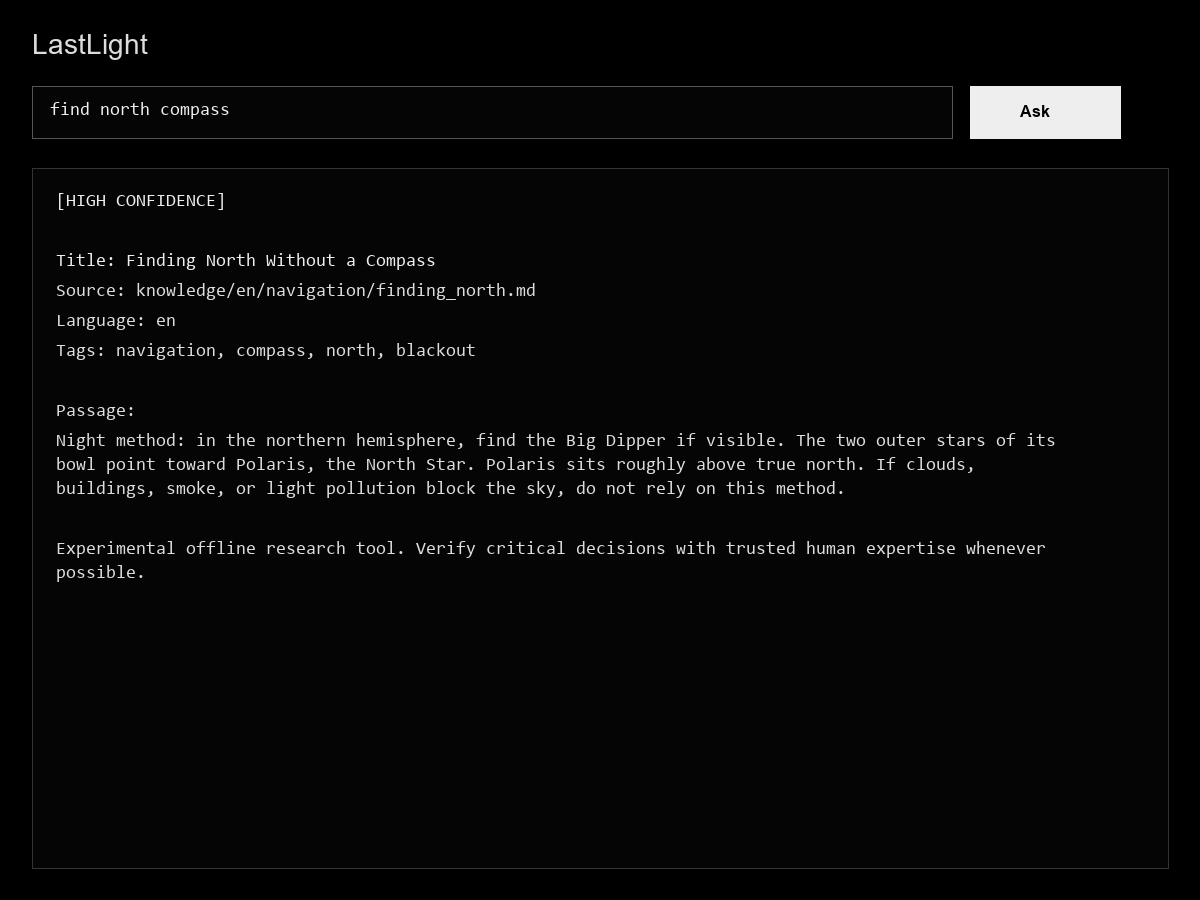
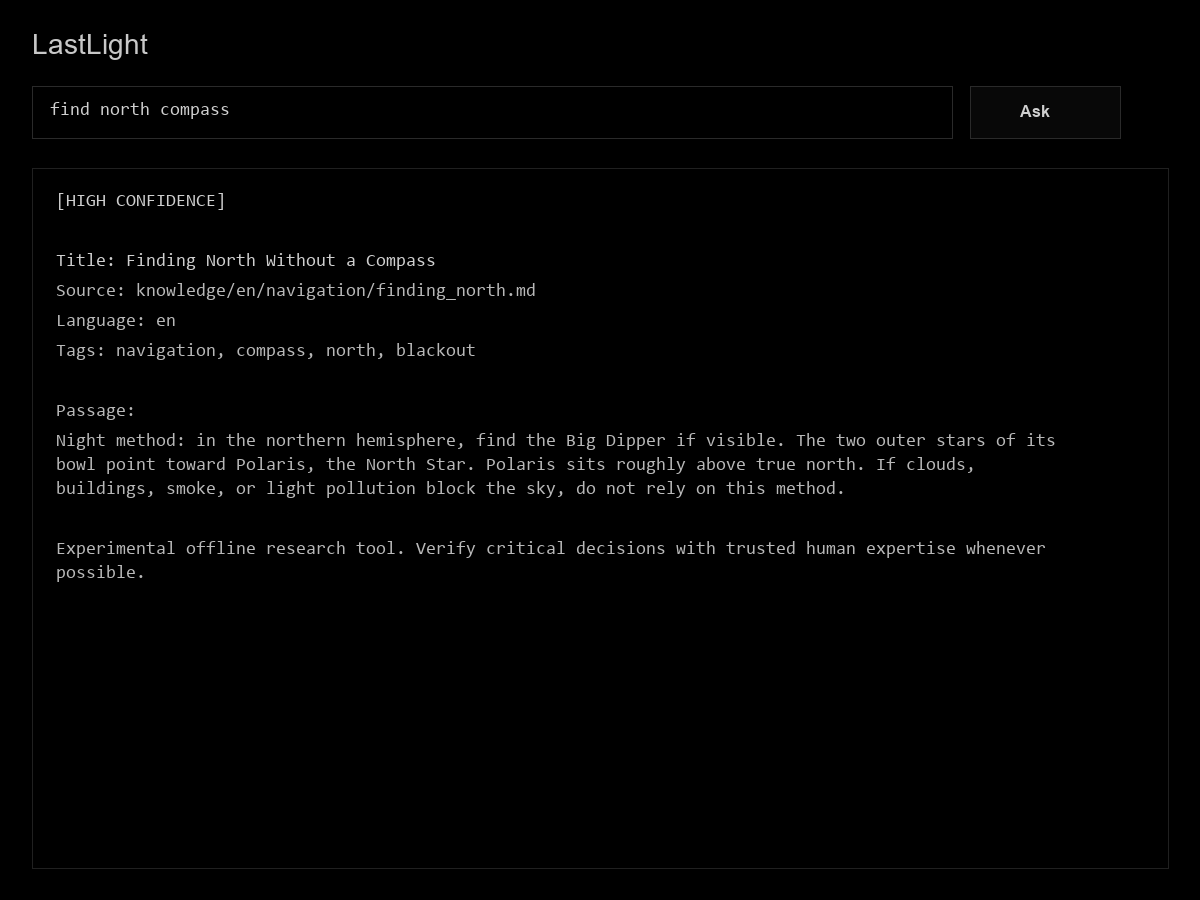
Darken web UI for low power

diff --git a/src/lastlight/web.py b/src/lastlight/web.py
@@ -33,7 +33,7 @@ def render_page(query: str = "", answer: str = "") -> bytes:
 body {{
   margin: 0;
   background: #000;
-  color: #ddd;
+  color: #b8b8b8;
   font: 16px/1.45 system-ui, sans-serif;
 }}
 main {{
@@ -41,31 +41,37 @@ main {{
   margin: 0 auto;
   padding: 1rem;
 }}
-h1 {{ font-size: 1.25rem; margin: 0 0 1rem; }}
+h1 {{ color: #c8c8c8; font-size: 1.25rem; margin: 0 0 1rem; }}
 form {{ display: flex; gap: .5rem; margin-bottom: 1rem; }}
 input {{
   flex: 1;
   min-width: 0;
-  background: #050505;
-  color: #eee;
-  border: 1px solid #555;
+  background: #000;
+  color: #cfcfcf;
+  border: 1px solid #2a2a2a;
   padding: .7rem;
 }}
 button {{
-  background: #eee;
-  color: #000;
-  border: 0;
+  background: #080808;
+  color: #cfcfcf;
+  border: 1px solid #2a2a2a;
   padding: .7rem .9rem;
   font-weight: 700;
+}}
+button:focus,
+input:focus {{
+  border-color: #555;
+  outline: none;
 }}
 pre {{
   white-space: pre-wrap;
   overflow-wrap: anywhere;
-  background: #050505;
-  border: 1px solid #333;
+  background: #000;
+  color: #b8b8b8;
+  border: 1px solid #202020;
   padding: 1rem;
 }}
-.muted {{ color: #999; }}
+.muted {{ color: #777; }}
 </style>
 </head>
 <body>

diff --git a/README.md b/README.md
@@ -23,7 +23,7 @@ On Windows, use `python` instead of `python3` if needed.
 
 ## Frontend
 
-Start the optional dark local web UI:
+Start the optional local web UI. It uses a pure black, low-brightness theme:
 
 ```bash
 python3 src/main.py --serve